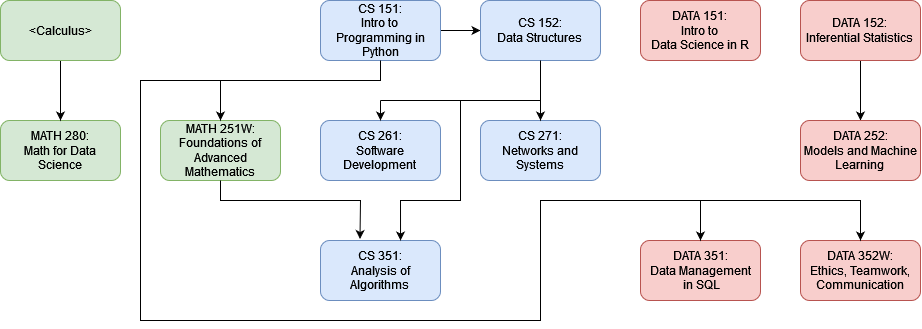
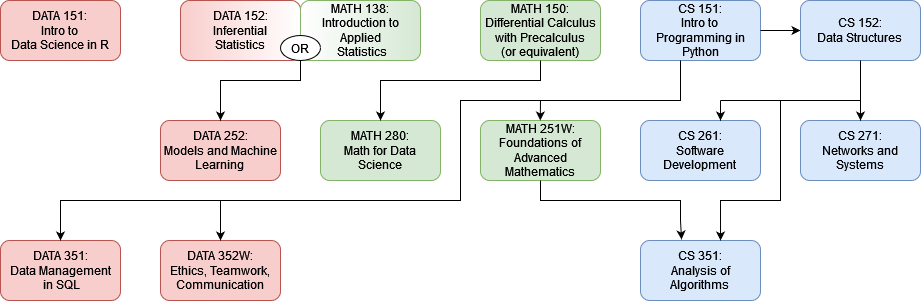
updating double major

diff --git a/advising/cs-ds.html b/advising/cs-ds.html
@@ -33,12 +33,16 @@
 
 <h4>BACHELORS OF SCIENCE IN DATA SCIENCE AND COMPUTER SCIENCE</h4>
 <p/>
-Five (5) courses in Computer Science, five (5) courses in Data Science, two (2) courses in Mathematics.<pre><code><ol><li>CS   151 : Intro to Programming in Python
-  <li>CS   152 : Data Structures
+Five (5) courses in Computer Science, four or five (4-5) courses in Data Science, two to four (2-4) courses in Mathematics.<pre><code><ol>
   <li>DATA 151 : Intro to Data Science in R
-  <li>DATA 152 : Inferential Statistics
+    <li style="white-space:nowrap"> <i>Statistics Requirement, choose one of </i> <ul>
+	<li>DATA 152 : Inferential Statistics
+	<li>MATH 138 : Introduction to Applied
+ Statistics</ul><br>
+  <li>CS   151 : Intro to Programming in Python
+  <li>CS   152 : Data Structures
   <li>MATH 251W: Foundations of Advanced Mathematics
-  <li>MATH 280 : Math for Data Science*
+  <li>MATH 280 : Math for Data Science
   <li>DATA 252 : Models and Machine Learning
   <li>CS   261 : Software Development
   <li>CS   271 : Networks and Systems
@@ -55,10 +59,11 @@ Five (5) courses in Computer Science, five (5) courses in Data Science, two (2) 
 <ol>
 <li>CS 151 serves as a sufficent but not necessary pre-req for MATH 251W, CS 152, DATA 351, and DATA 352W.</li>
 <ul>
-<li>For MATH 251W any 100-level CS, DATA, or MATH class would suffice, including High School equivalent.</li>
+<li>For MATH 251W any 100-level CS, DATA, or MATH class would suffice, including high school equivalent.</li>
 <li>For DATA 352W, CS 151 or DATA 151 would suffice.</li>
 <li>For CS152 and DATA 351, CS 151 is required.</li>
-</ul>
-<li>DATA 251 has a calculus requirement.</li>
+</ul></li>
+<li>For MATH 280, any calculus class would suffice, including high school equivalent.</li>
+<li>For the statistic distribution requirement, any statistics class would suffice, including high school equivalent.
 <li>There are no remaining elective requirements.</li>
 </ol>
